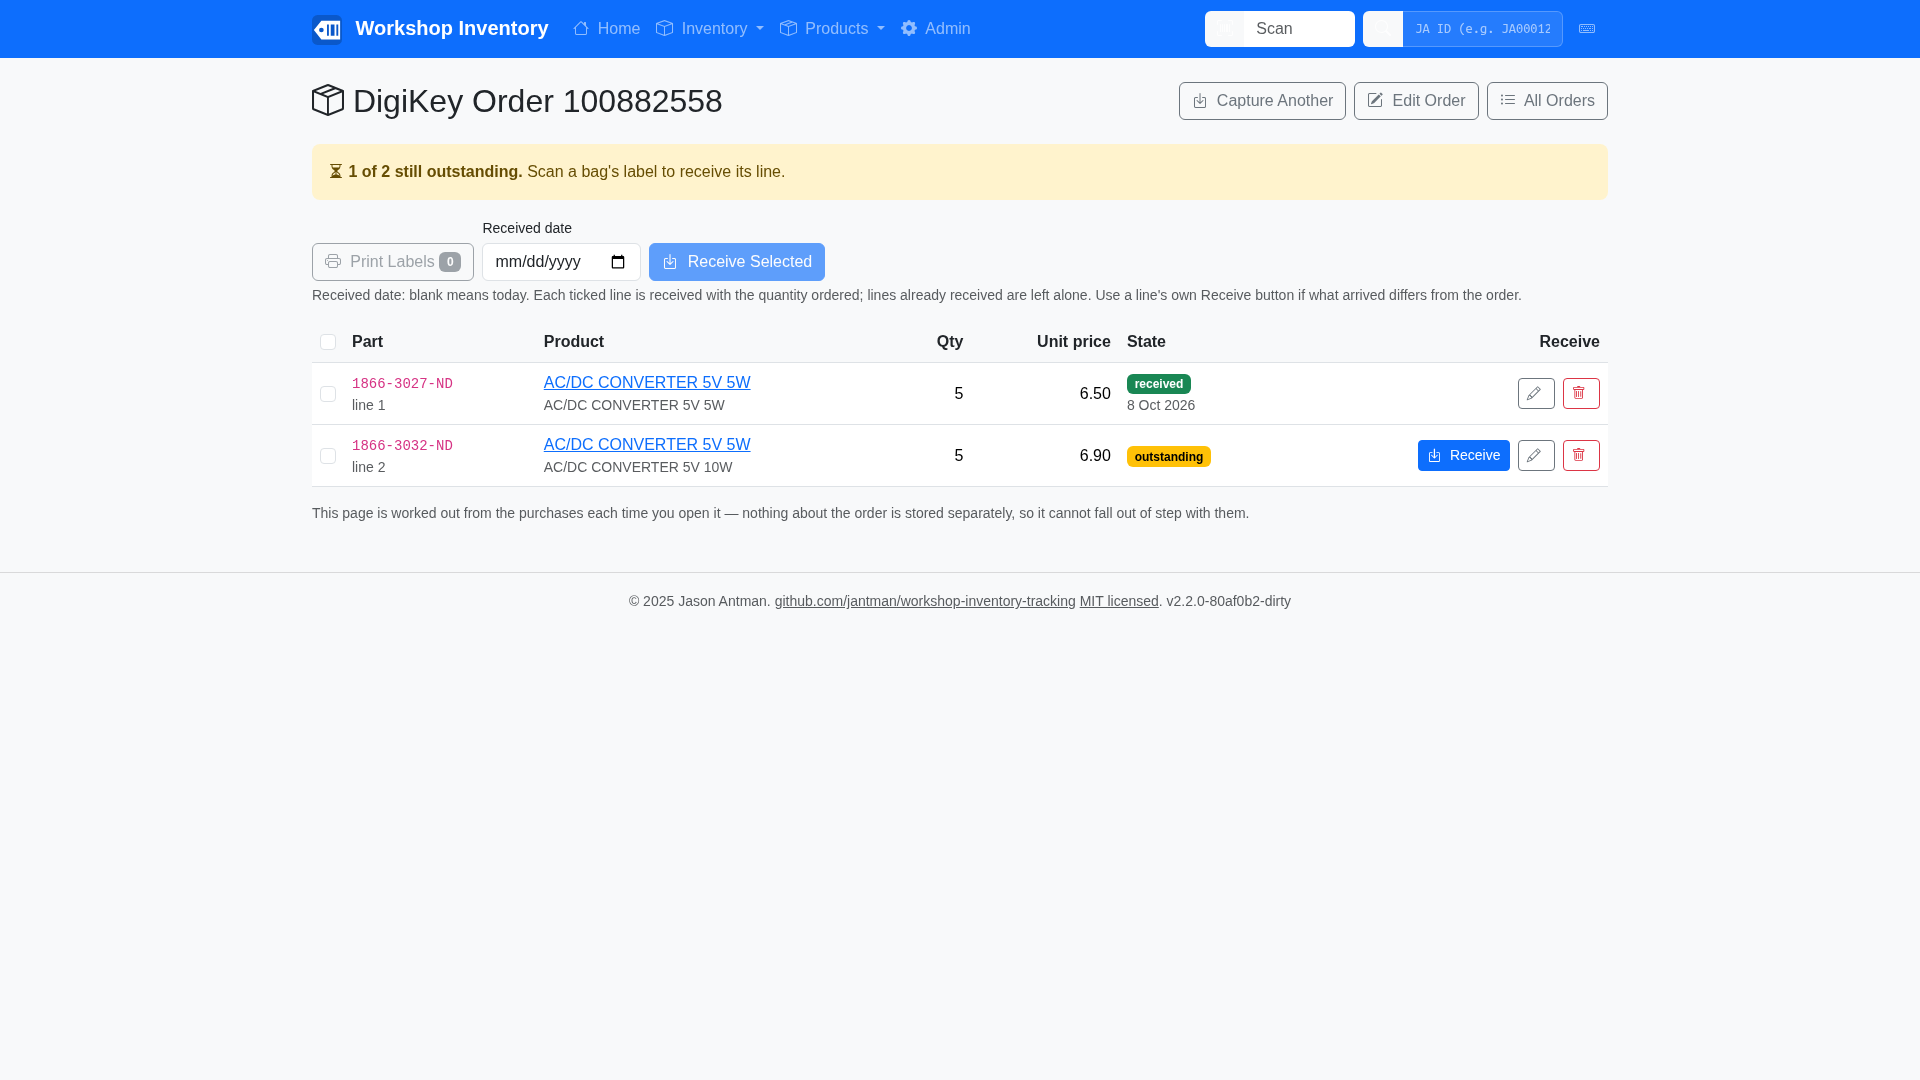
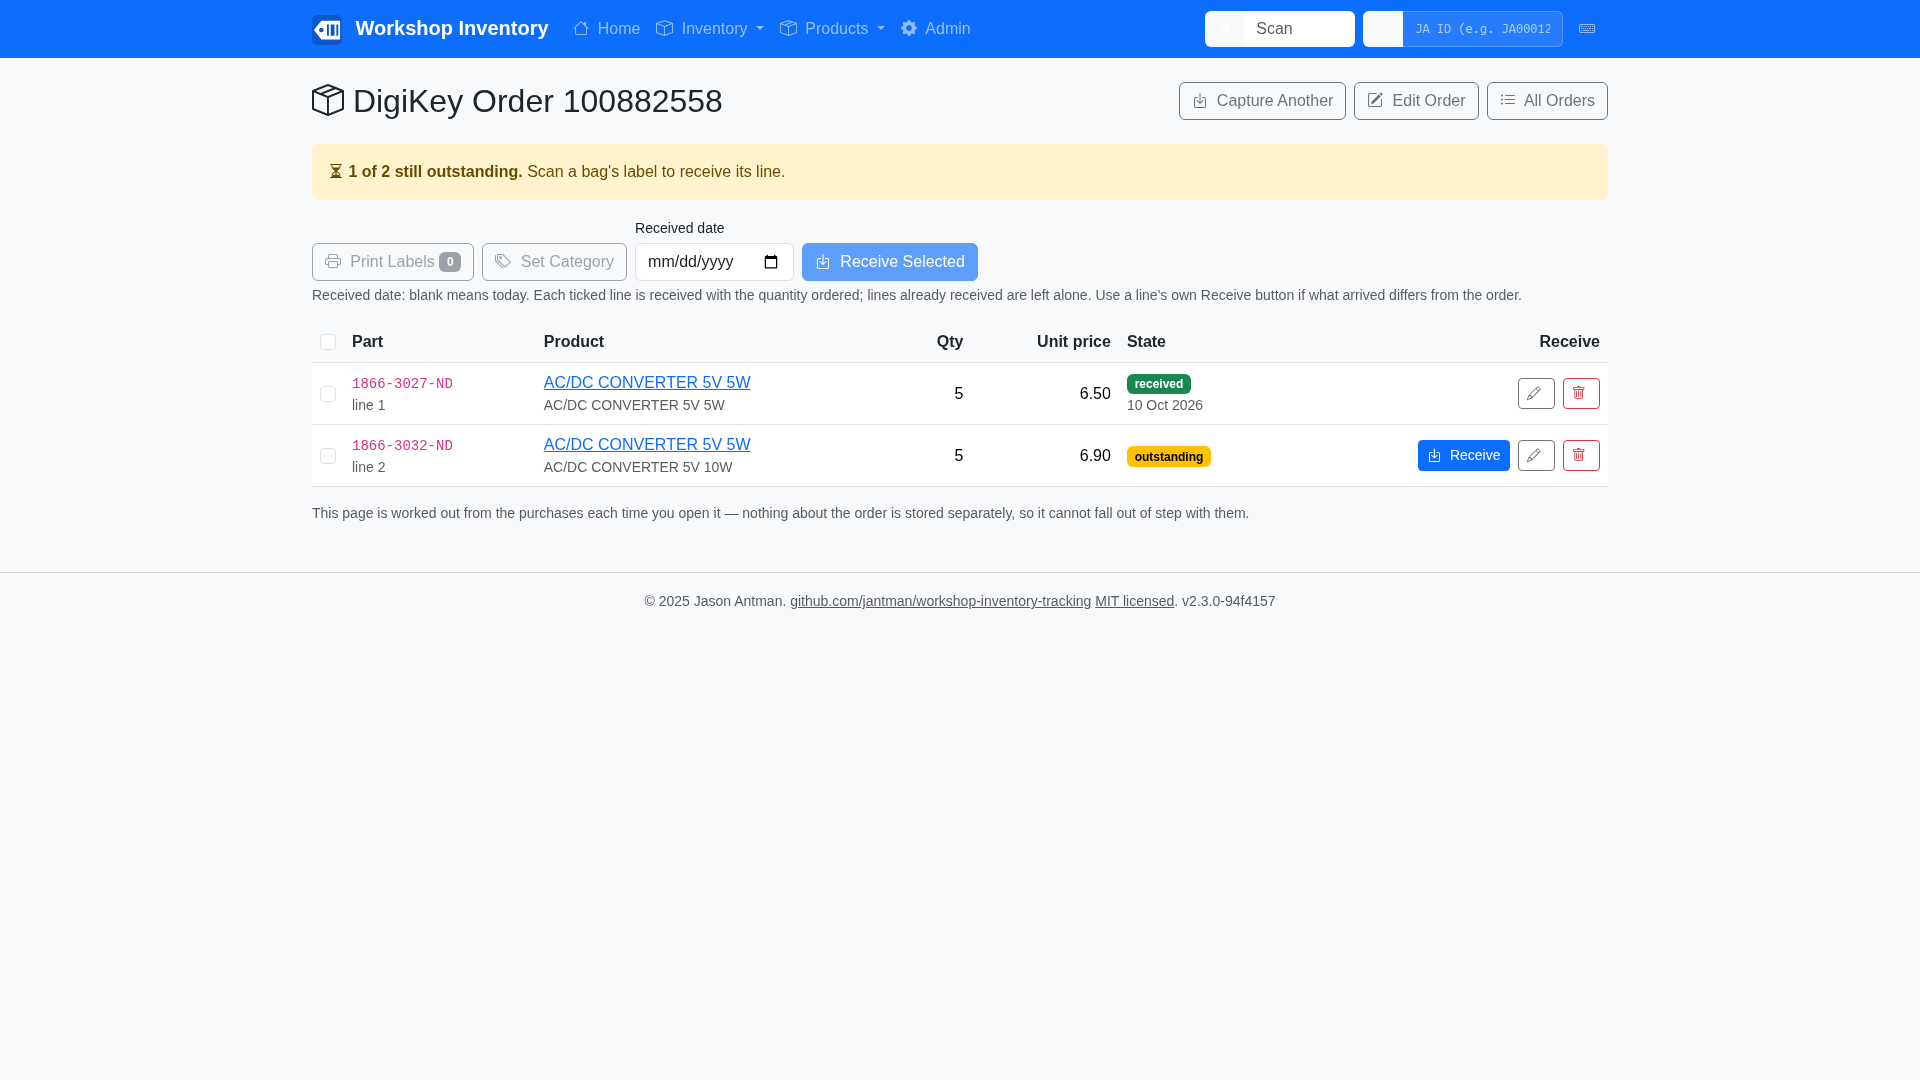
docs(063): screenshots showing Set Category; mark tasks complete
Regenerated only the three screenshots whose pages gained the button
(products list, DigiKey order, Outstanding Products).

Claude-Session: https://claude.ai/code/session_01RqPwVzQqNEfeYWtMaLWk4d

Changed region(s): [[0.25, 0.1833, 0.5312, 0.275], [0.3438, 0.55, 0.6562, 0.5806], [0.5938, 0.3667, 0.625, 0.3972]]

diff --git a/specs/063-bulk-set-category/tasks.md b/specs/063-bulk-set-category/tasks.md
@@ -48,7 +48,7 @@ None. There are no new dependencies and no schema change.
 ## Phase 6: Polish
 
 - [X] T016 [P] In `docs/user-manual.md`, add a short "Setting a category on several products" section near the product catalog sections, covering the three pages, suggestions, that blank is refused, and that the selection is cleared.
-- [ ] T017 Run `nox -s tests` and `nox -s e2e` (detached, at least 20 minutes). Regenerate only the screenshots that show the changed toolbars (Products list, order page, Outstanding Products) with `nox -s screenshots`. Measure the churn, commit only the relevant images, and run `nox -s screenshots_verify`.
+- [X] T017 Run `nox -s tests` and `nox -s e2e` (detached, at least 20 minutes). Regenerate only the screenshots that show the changed toolbars (Products list, order page, Outstanding Products) with `nox -s screenshots`. Measure the churn, commit only the relevant images, and run `nox -s screenshots_verify`.
 - [X] T018 Check `grep -ric "catalogue" README.md docs/ app/ tests/` returns nothing, and lint only the touched Python files.
 
 ## Dependencies
